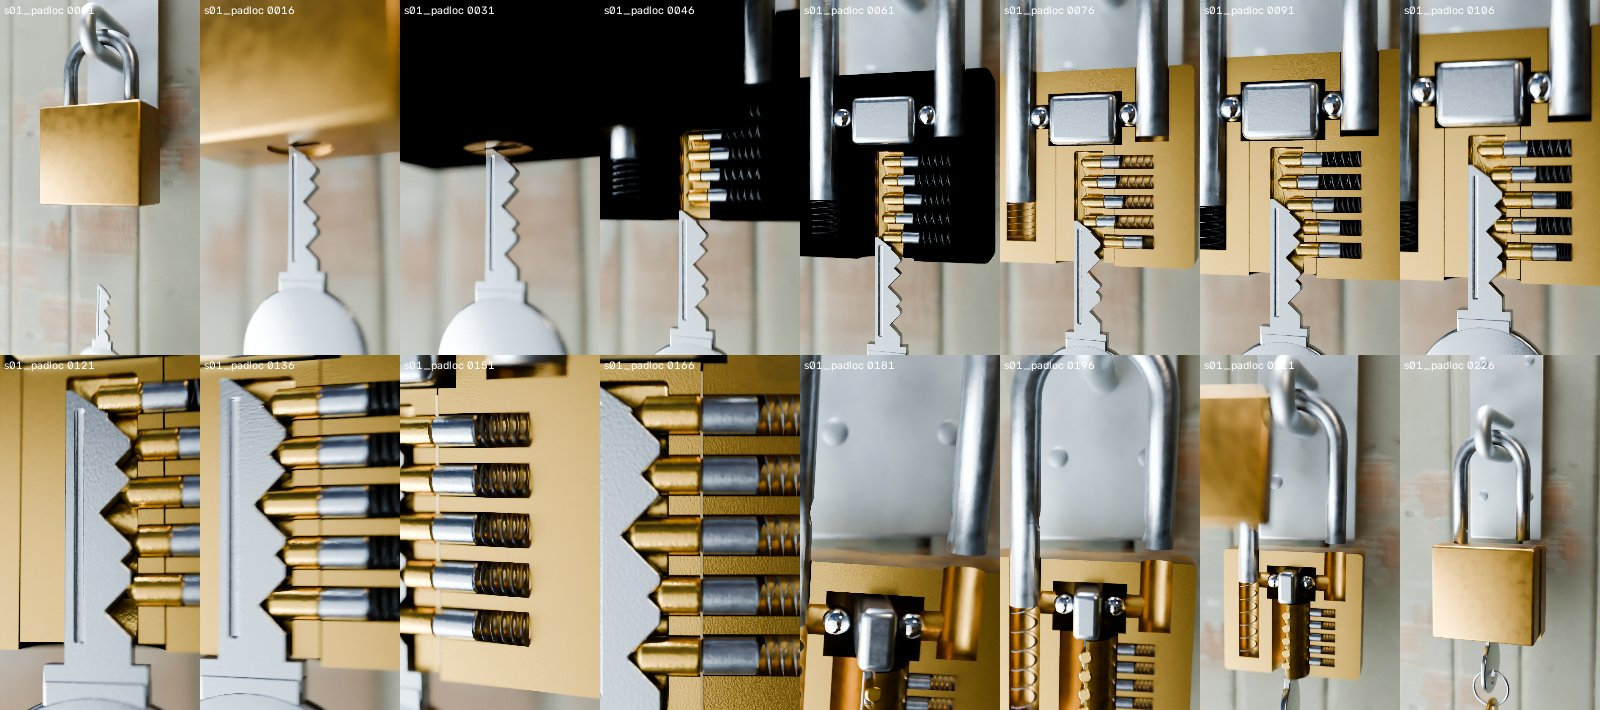
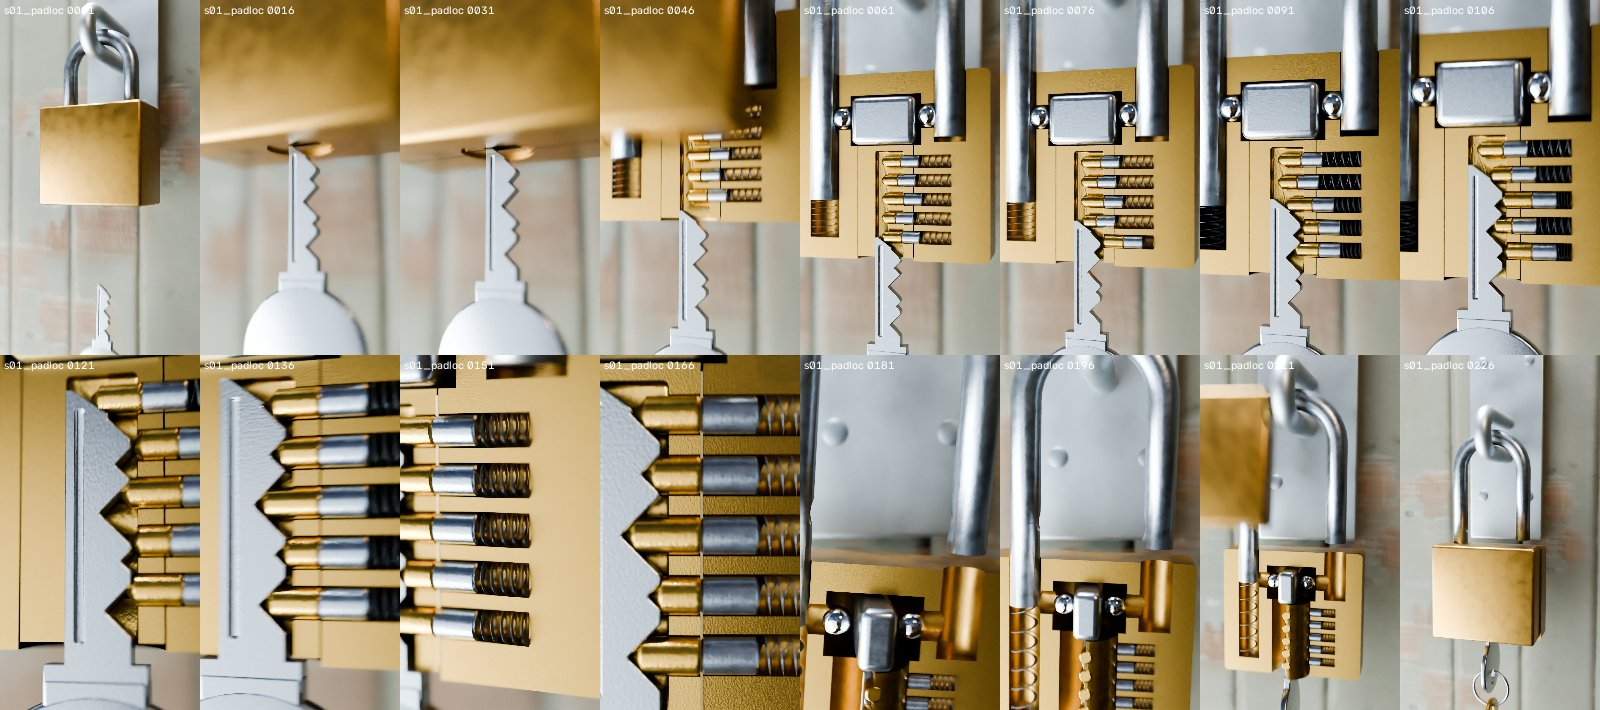
v4 QC pass after fresh re-render; xcat character preview
Claude-Session: https://claude.ai/code/session_012A2H6oFCcy3h2UTwCAYUrq

Changed region(s): [[0.25, 0.0, 0.625, 0.3718]]

diff --git a/cinematic-blender-shorts/projects/pilot-04-padlock/qc/QC_final.md b/cinematic-blender-shorts/projects/pilot-04-padlock/qc/QC_final.md
@@ -6,13 +6,13 @@ Contact sheet: `qc/contact_final.jpg`
 
 | Check | Result | Note |
 |---|---|---|
-| Frames: complete, readable, 9:16, no black/frozen/flicker | FIX | s01_padlock_v4: temporal spike at 0018.png (change 58.3 vs typical 4.6); s01_padlock_v4: temporal spike at 0074.png (change 54.4 vs typical 4.7) |
+| Frames: complete, readable, 9:16, no black/frozen/flicker | PASS | 240 frames checked |
 | Video: resolution | PASS | 1440x2560 (expected 1440x2560) |
 | Video: 30 fps | PASS | 30/1 |
 | Video: audio track present | PASS | 1 audio stream(s) |
-| Motion: camera never parked (still fraction <= 0.33) | PASS | still 0.02 |
-| Motion: zoom rate in reference range 0.25-2.00 %/frame | PASS | mean |zoom| 1.312 %/frame, in 0.39 / out 0.56 |
-| Motion: subject animates, not only the camera (residual >= 4 px/s) | PASS | residual 26.5 px/s |
+| Motion: camera never parked (still fraction <= 0.33) | PASS | still 0.03 |
+| Motion: zoom rate in reference range 0.25-2.00 %/frame | PASS | mean |zoom| 1.431 %/frame, in 0.38 / out 0.57 |
+| Motion: subject animates, not only the camera (residual >= 4 px/s) | PASS | residual 25.3 px/s |
 
 ## Manual checks (fill in after looking at the contact sheet and the video)
 
